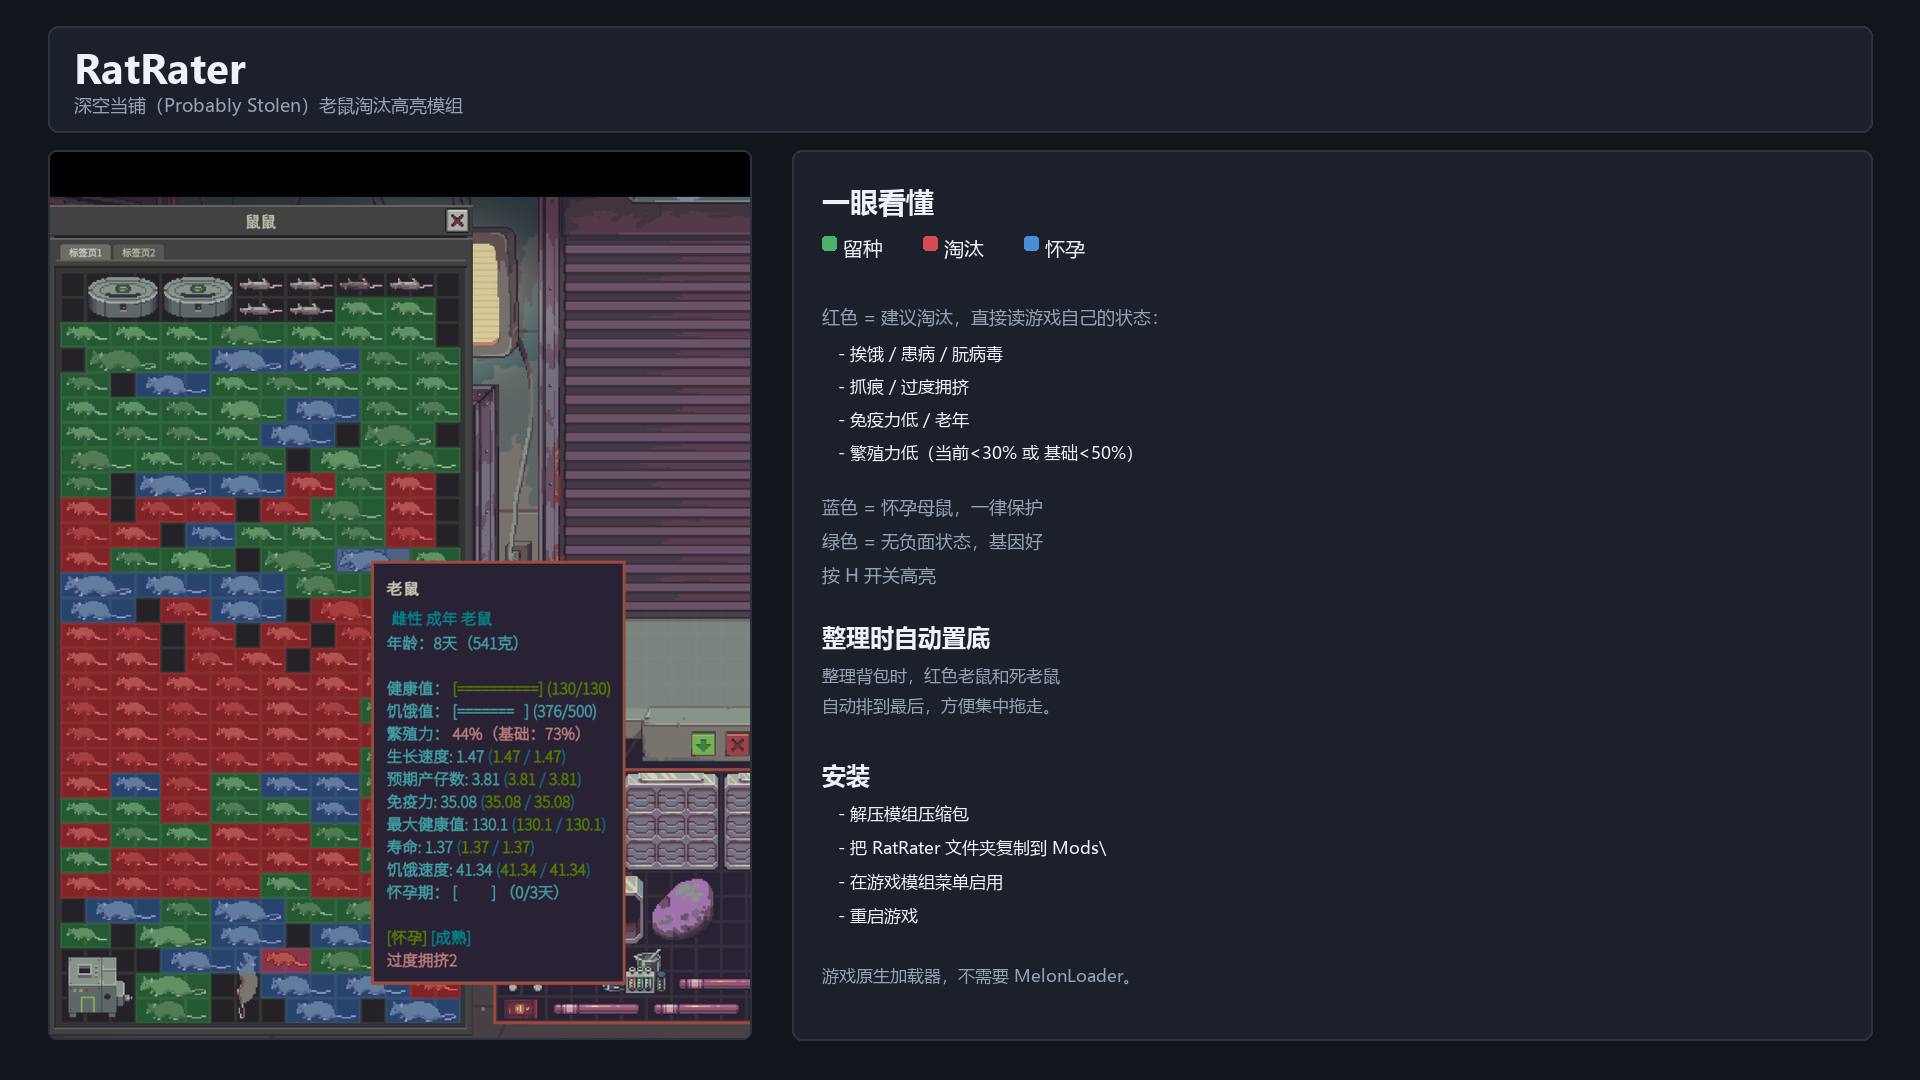
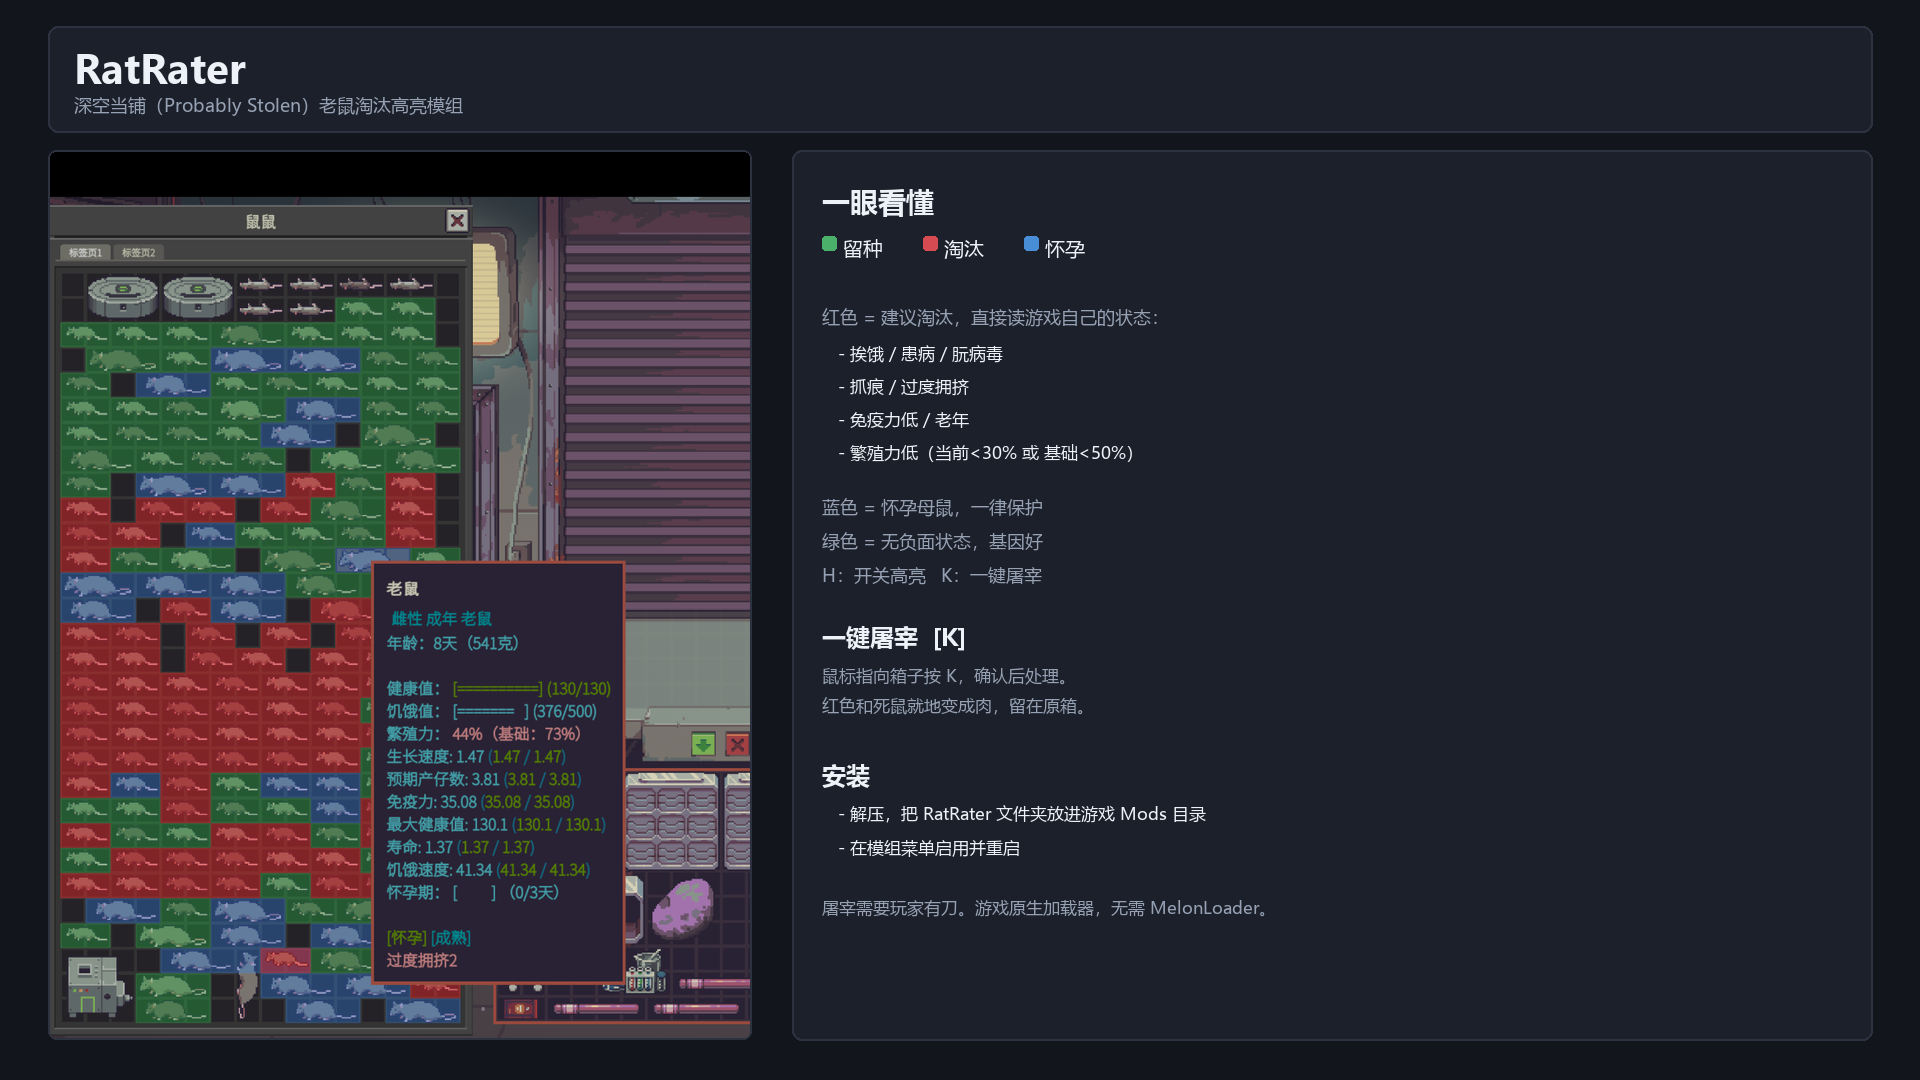
素材加入 K 键一键屠宰说明
- 中英 gallery 信息栏把置底块换成一键屠宰（K），主快捷键行同步
- 安装步骤压缩为两行腾出空间，补充“屠宰需要有刀”

diff --git a/RatRater/store-assets/compose.py b/RatRater/store-assets/compose.py
@@ -122,14 +122,13 @@ T_EN = {
                   "Low immunity / old age", "Low fertility (<30% or <50% base)"),
     "blue": "Blue = pregnant, always protected",
     "green": "Green = no status, good genetics",
-    "hotkey": "Press H to toggle highlights",
-    "tidy": "SINKS WHEN SORTING",
-    "tidy1": "When you tidy a backpack, cull-flagged",
-    "tidy2": "and dead rats drop to the last slots.",
+    "hotkey": "H: toggle highlights   K: butcher",
+    "tidy": "ONE-KEY BUTCHER  [K]",
+    "tidy1": "Point at a container, press K, confirm.",
+    "tidy2": "Red and dead rats become meat in place.",
     "install": "INSTALL",
-    "ins_items": ("Unzip the mod archive", "Copy the RatRater folder into Mods\\",
-                  "Enable in the in-game Mods menu", "Restart the game"),
-    "foot": "Native mod loader. No MelonLoader.",
+    "ins_items": ("Unzip, copy RatRater into the game's Mods folder", "Enable in Mods menu and restart"),
+    "foot": "Butcher needs a blade. Native loader, no MelonLoader.",
 }
 
 T_ZH = {
@@ -141,14 +140,13 @@ T_ZH = {
                   "免疫力低 / 老年", "繁殖力低（当前<30% 或 基础<50%）"),
     "blue": "蓝色 = 怀孕母鼠，一律保护",
     "green": "绿色 = 无负面状态，基因好",
-    "hotkey": "按 H 开关高亮",
-    "tidy": "整理时自动置底",
-    "tidy1": "整理背包时，红色老鼠和死老鼠",
-    "tidy2": "自动排到最后，方便集中拖走。",
+    "hotkey": "H：开关高亮   K：一键屠宰",
+    "tidy": "一键屠宰  [K]",
+    "tidy1": "鼠标指向箱子按 K，确认后处理。",
+    "tidy2": "红色和死鼠就地变成肉，留在原箱。",
     "install": "安装",
-    "ins_items": ("解压模组压缩包", "把 RatRater 文件夹复制到 Mods\\",
-                  "在游戏模组菜单启用", "重启游戏"),
-    "foot": "游戏原生加载器，不需要 MelonLoader。",
+    "ins_items": ("解压，把 RatRater 文件夹放进游戏 Mods 目录", "在模组菜单启用并重启"),
+    "foot": "屠宰需要玩家有刀。游戏原生加载器，无需 MelonLoader。",
 }
 
 
